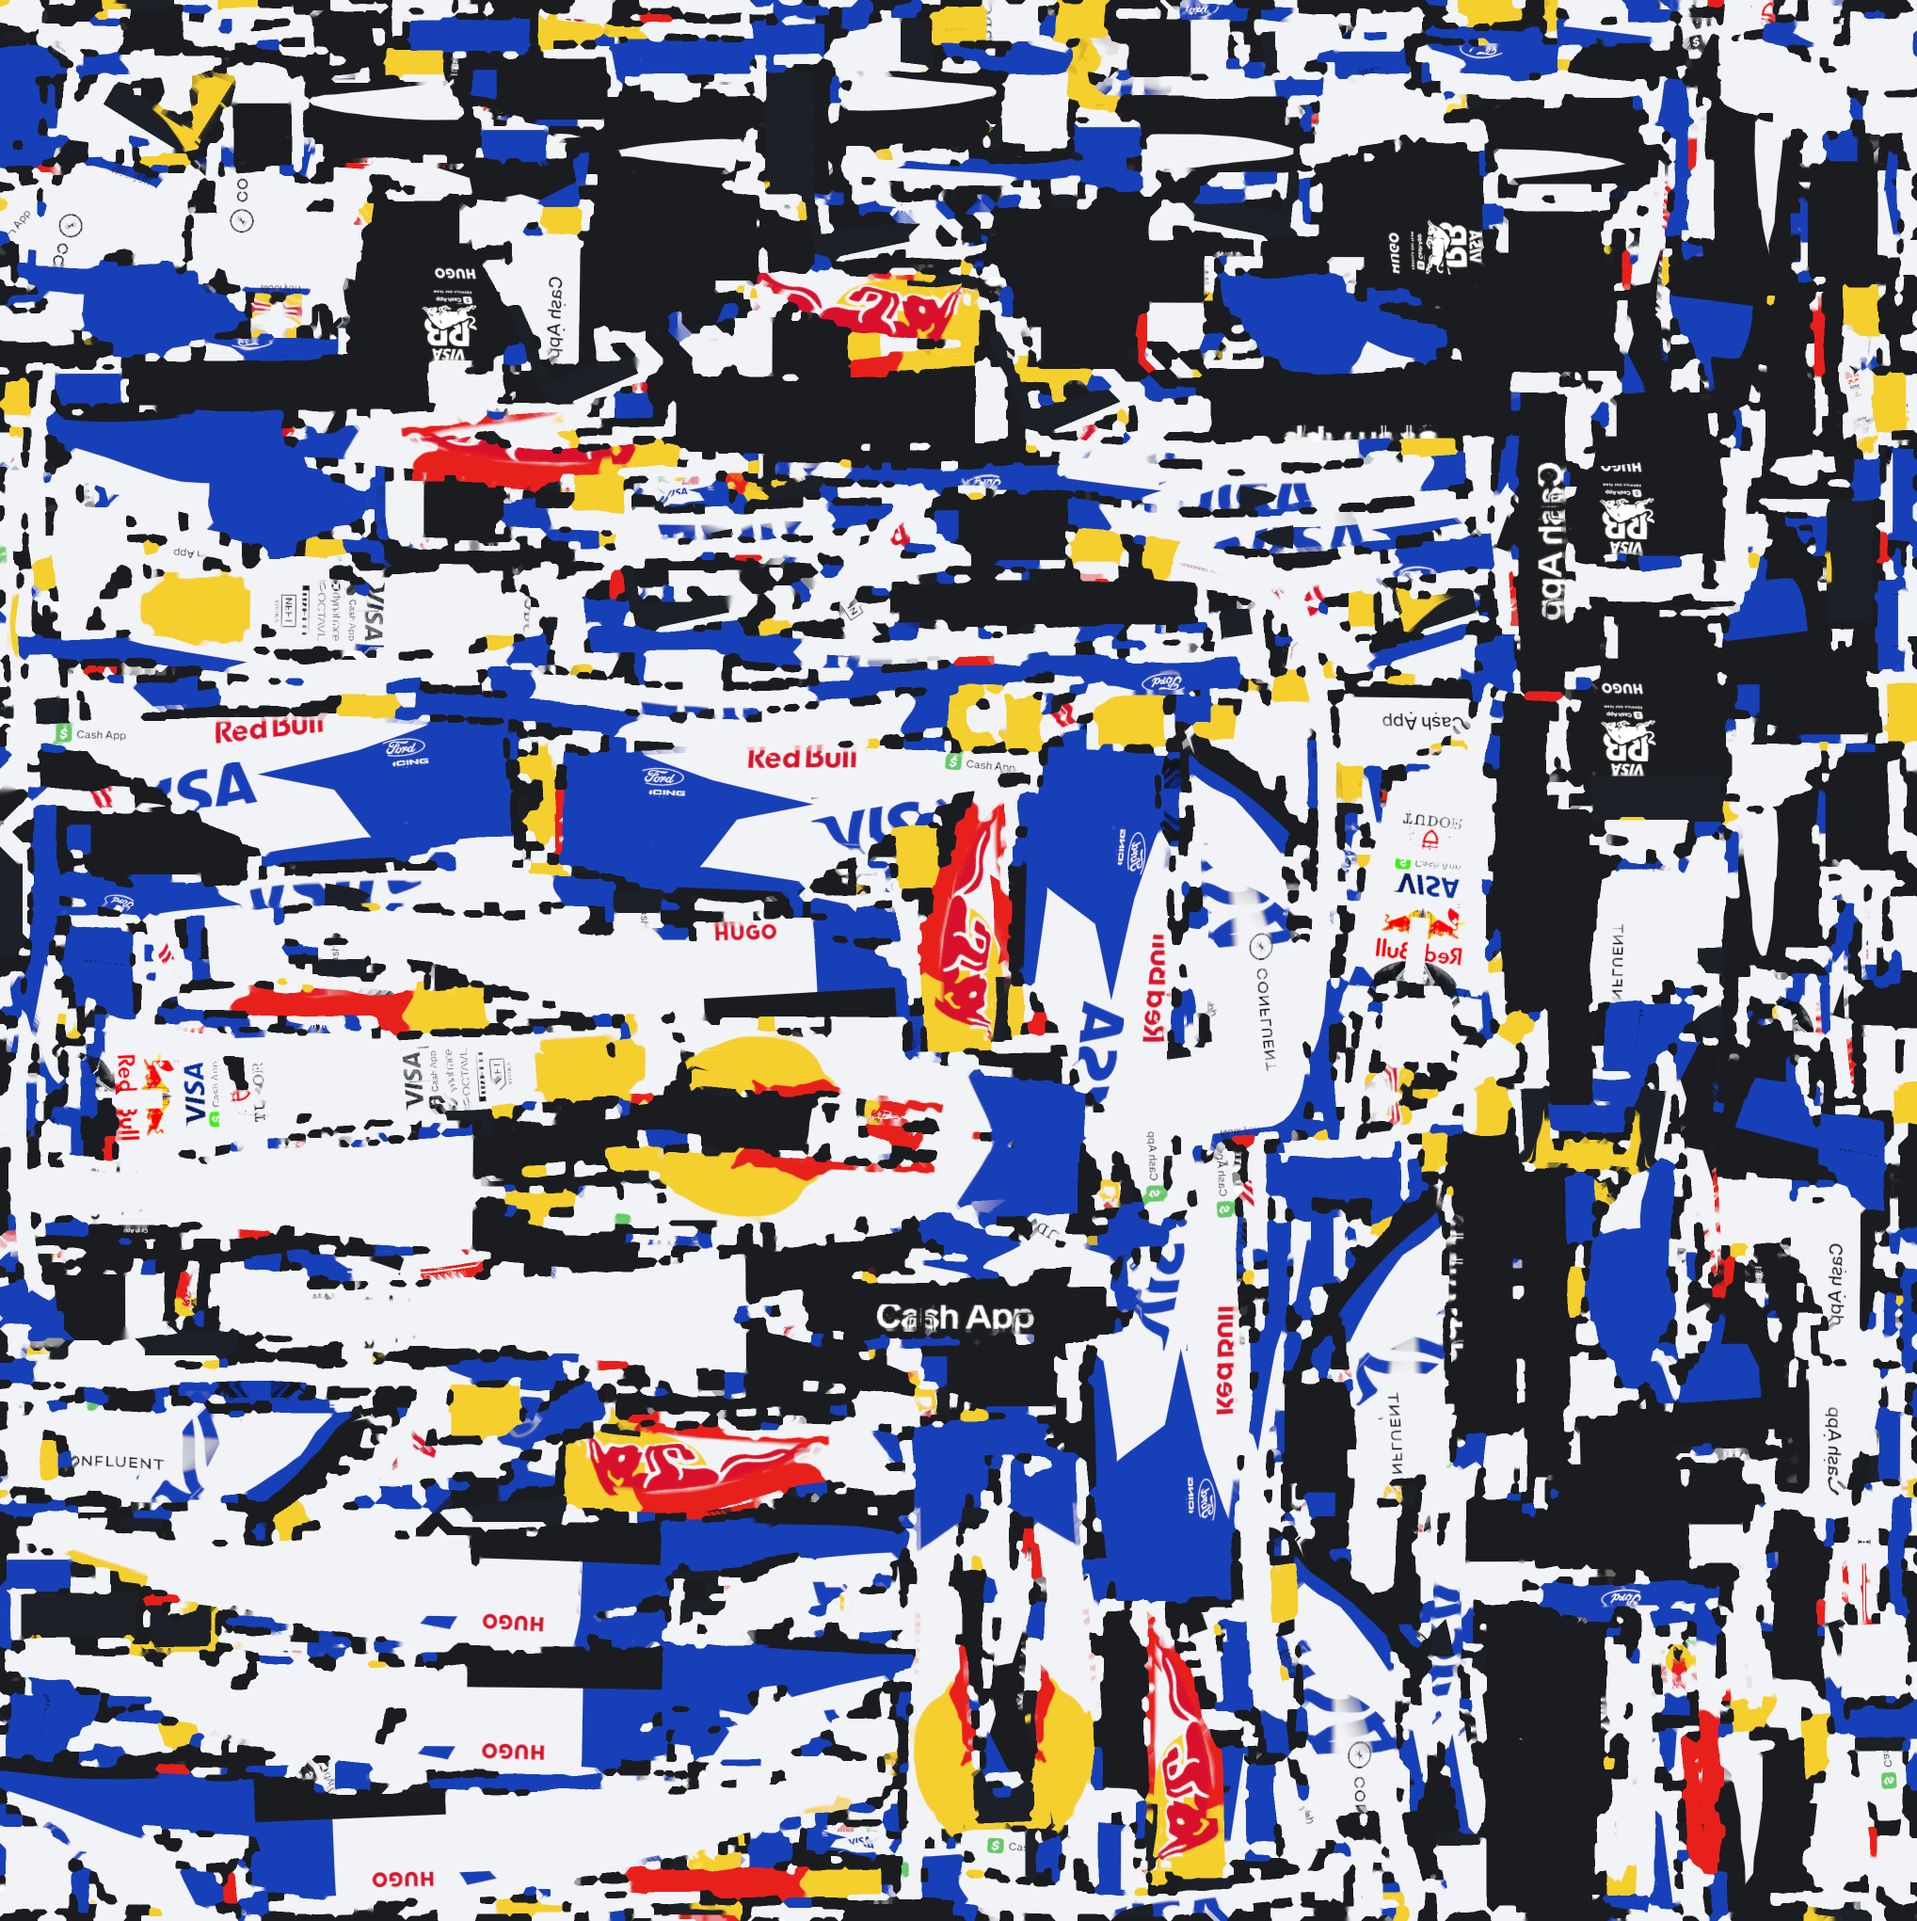
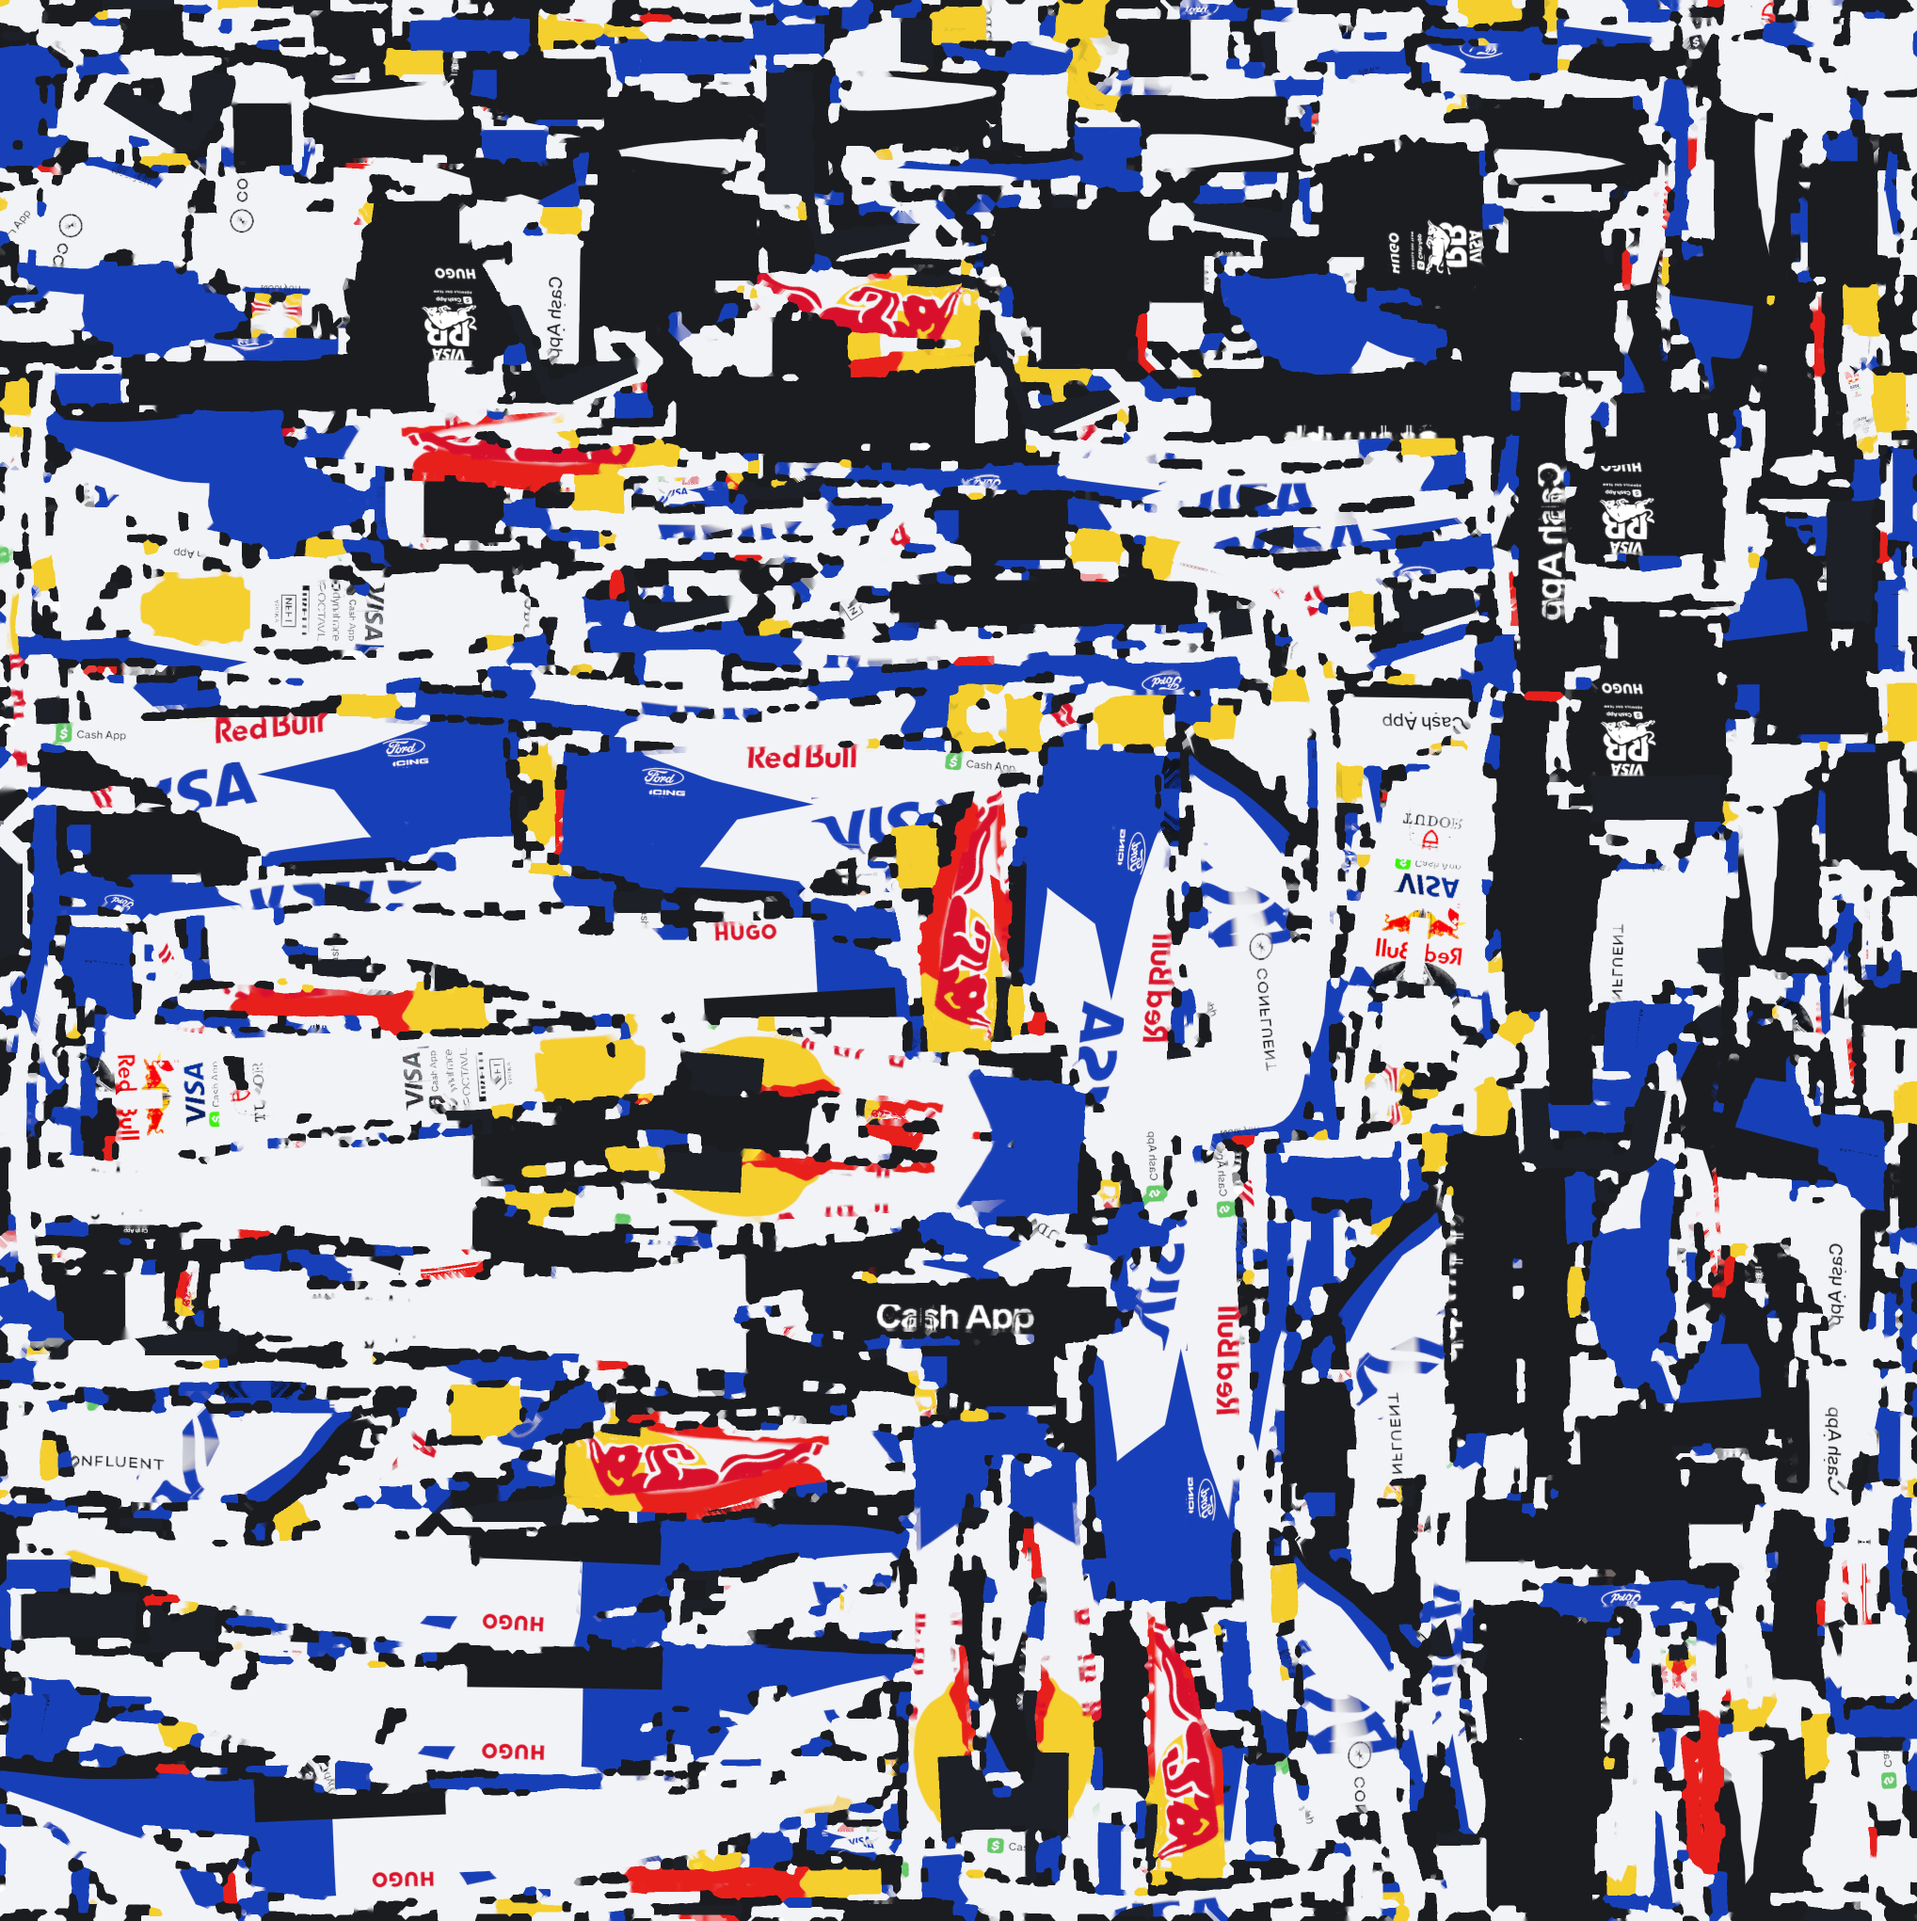
Zwischenstand Prüfung: Draufsicht vor Seitenbogen backen, Haas geglättet
Claude-Session: https://claude.ai/code/session_01R2sgbheiziLJay2Wi6CYb6

diff --git a/tools/textur/backen.js b/tools/textur/backen.js
@@ -35,9 +35,11 @@ const SS = 2;
       const TOPG = '\\n if (vCls < 2.5 && uTopOn > 0.5) { vec3 bn = normalize(vBN); vec2 tuv = vec2((' + XW.toFixed(3) + ' - vLP.x) / ' + (2 * XW).toFixed(3) + ', (vLP.z - (' + Z0.toFixed(3) + ')) / ' + (Z1 - Z0).toFixed(3) + ');'
         + ' if (bn.y > 0.5 && tuv.x > 0.0 && tuv.x < 1.0 && tuv.y > 0.0 && tuv.y < 1.0 && vLP.y > texture2D(uTopH, tuv).r - 0.04) { vec4 t = texture2D(uTop, tuv); diffuseColor.rgb = mix(diffuseColor.rgb, t.rgb, t.a * smoothstep(0.5, 0.72, bn.y)); } }\\n';
       mat.onBeforeCompile = (sh, r) => { if (hook) hook(sh, r);
-        const v = sh.vertexShader.replace('#include <project_vertex>', '#include <project_vertex>\\n gl_Position = vec4(uvB * 2.0 - 1.0, 0.0, 1.0); vBN = normal;'), f = sh.fragmentShader.replace('#include <opaque_fragment>', 'gl_FragColor = sRGBTransferOETF(vec4(diffuseColor.rgb, 1.0)); return;').replace('#include <alphamap_fragment>', TOPG + '#include <alphamap_fragment>');
-        if (v === sh.vertexShader || !f.includes('uTopH, tuv') || !f.includes('sRGBTransferOETF(vec4(diffuseColor')) throw new Error('Einhängepunkt im Shader fehlt');
-        sh.vertexShader = 'attribute vec2 uvB; varying vec3 vBN;\\n' + v; sh.fragmentShader = 'uniform sampler2D uTop, uTopH; uniform float uTopOn; varying vec3 vBN;\\n' + f;
+        const v = sh.vertexShader.replace('#include <project_vertex>', '#include <project_vertex>\\n gl_Position = vec4(uvB * 2.0 - 1.0, 0.0, 1.0); vBN = normal;'), f = sh.fragmentShader.replace('#include <opaque_fragment>', 'gl_FragColor = sRGBTransferOETF(vec4(diffuseColor.rgb, 1.0)); return;');
+        const DK = '\\n { vec3 dN = normalize(vLN);';   // Draufsicht VOR den Seitenaufklebern auftragen: wo beide greifen (geneigte Schultern), gewinnt der Seitenbogen
+        const f2 = f.includes(DK) ? f.replace(DK, TOPG + DK) : f.replace('#include <alphamap_fragment>', TOPG + '#include <alphamap_fragment>');
+        if (v === sh.vertexShader || !f2.includes('uTopH, tuv') || !f2.includes('sRGBTransferOETF(vec4(diffuseColor')) throw new Error('Einhängepunkt im Shader fehlt');
+        sh.vertexShader = 'attribute vec2 uvB; varying vec3 vBN;\\n' + v; sh.fragmentShader = 'uniform sampler2D uTop, uTopH; uniform float uTopOn; varying vec3 vBN;\\n' + f2;
         sh.uniforms.uTop = { value: topTex }; sh.uniforms.uTopH = { value: hRT ? hRT.texture : null }; sh.uniforms.uTopOn = { value: topTex ? 1 : 0 }; };
       mat.customProgramCacheKey = () => 'bake-' + tk; mat.side = THREE.DoubleSide;
       const sc = new THREE.Scene(); for (const L of tp.lods) { const m = new THREE.Mesh(L.gloss, mat); m.frustumCulled = false; sc.add(m); }
